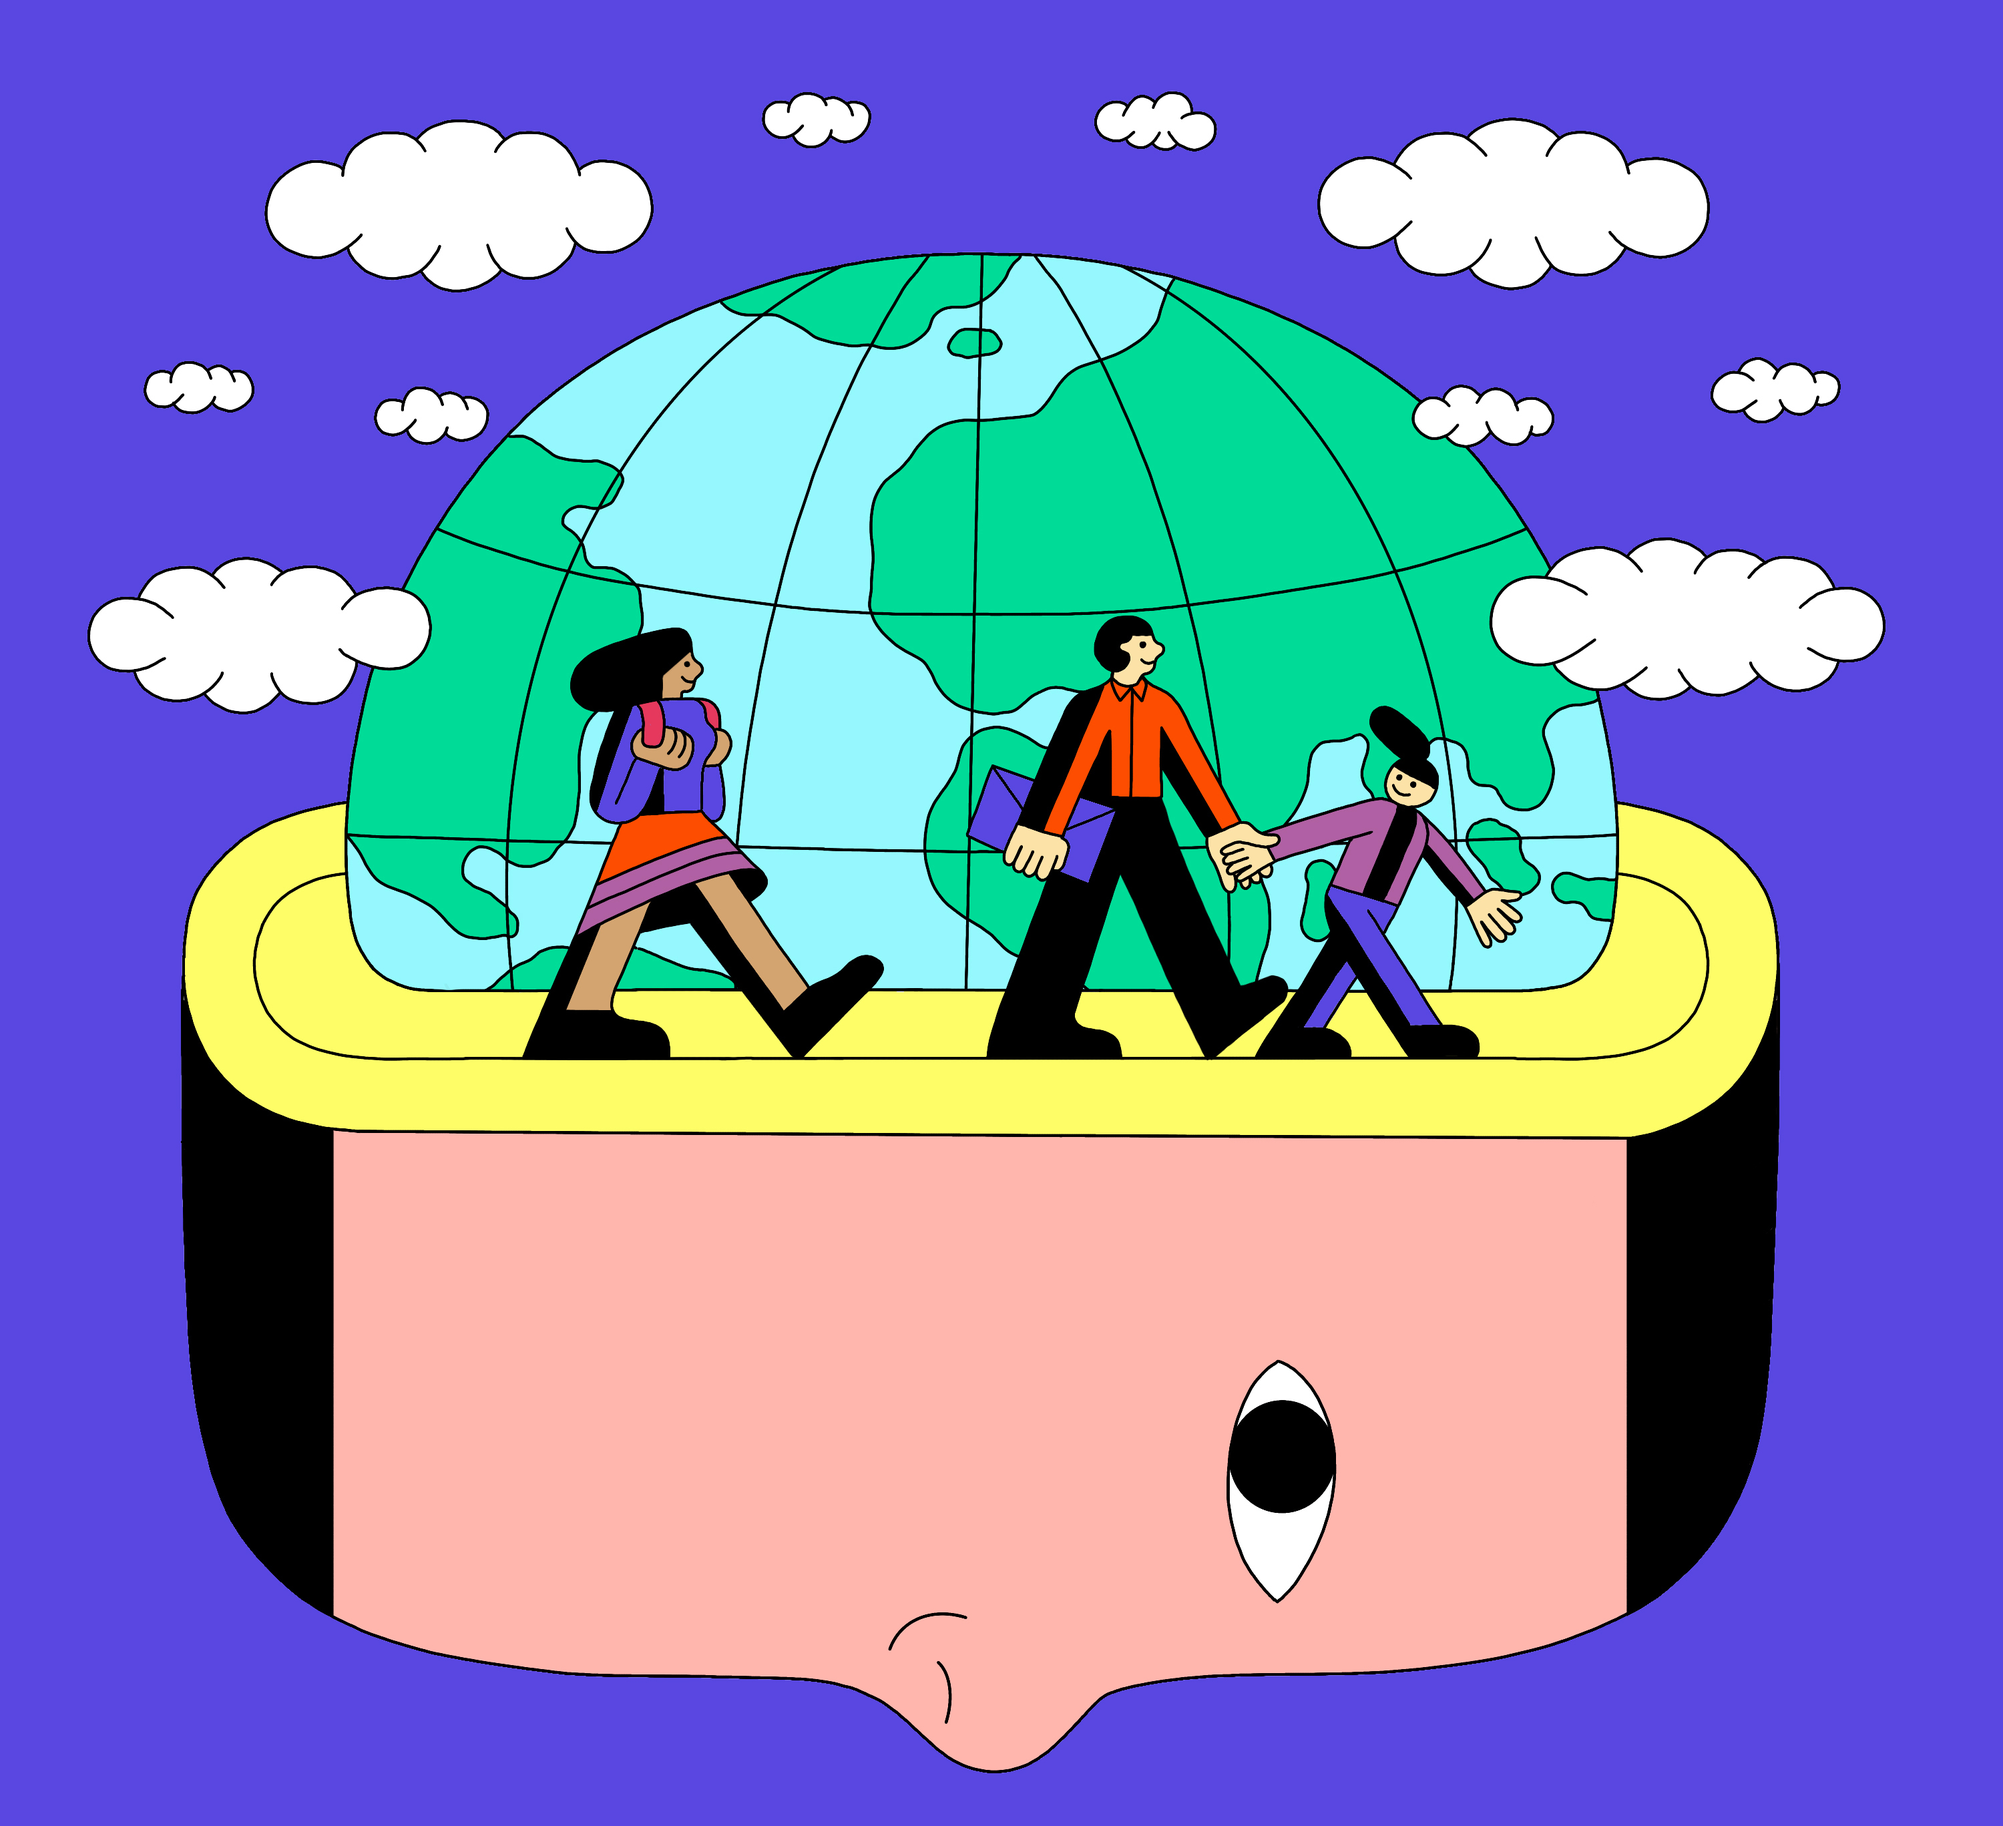
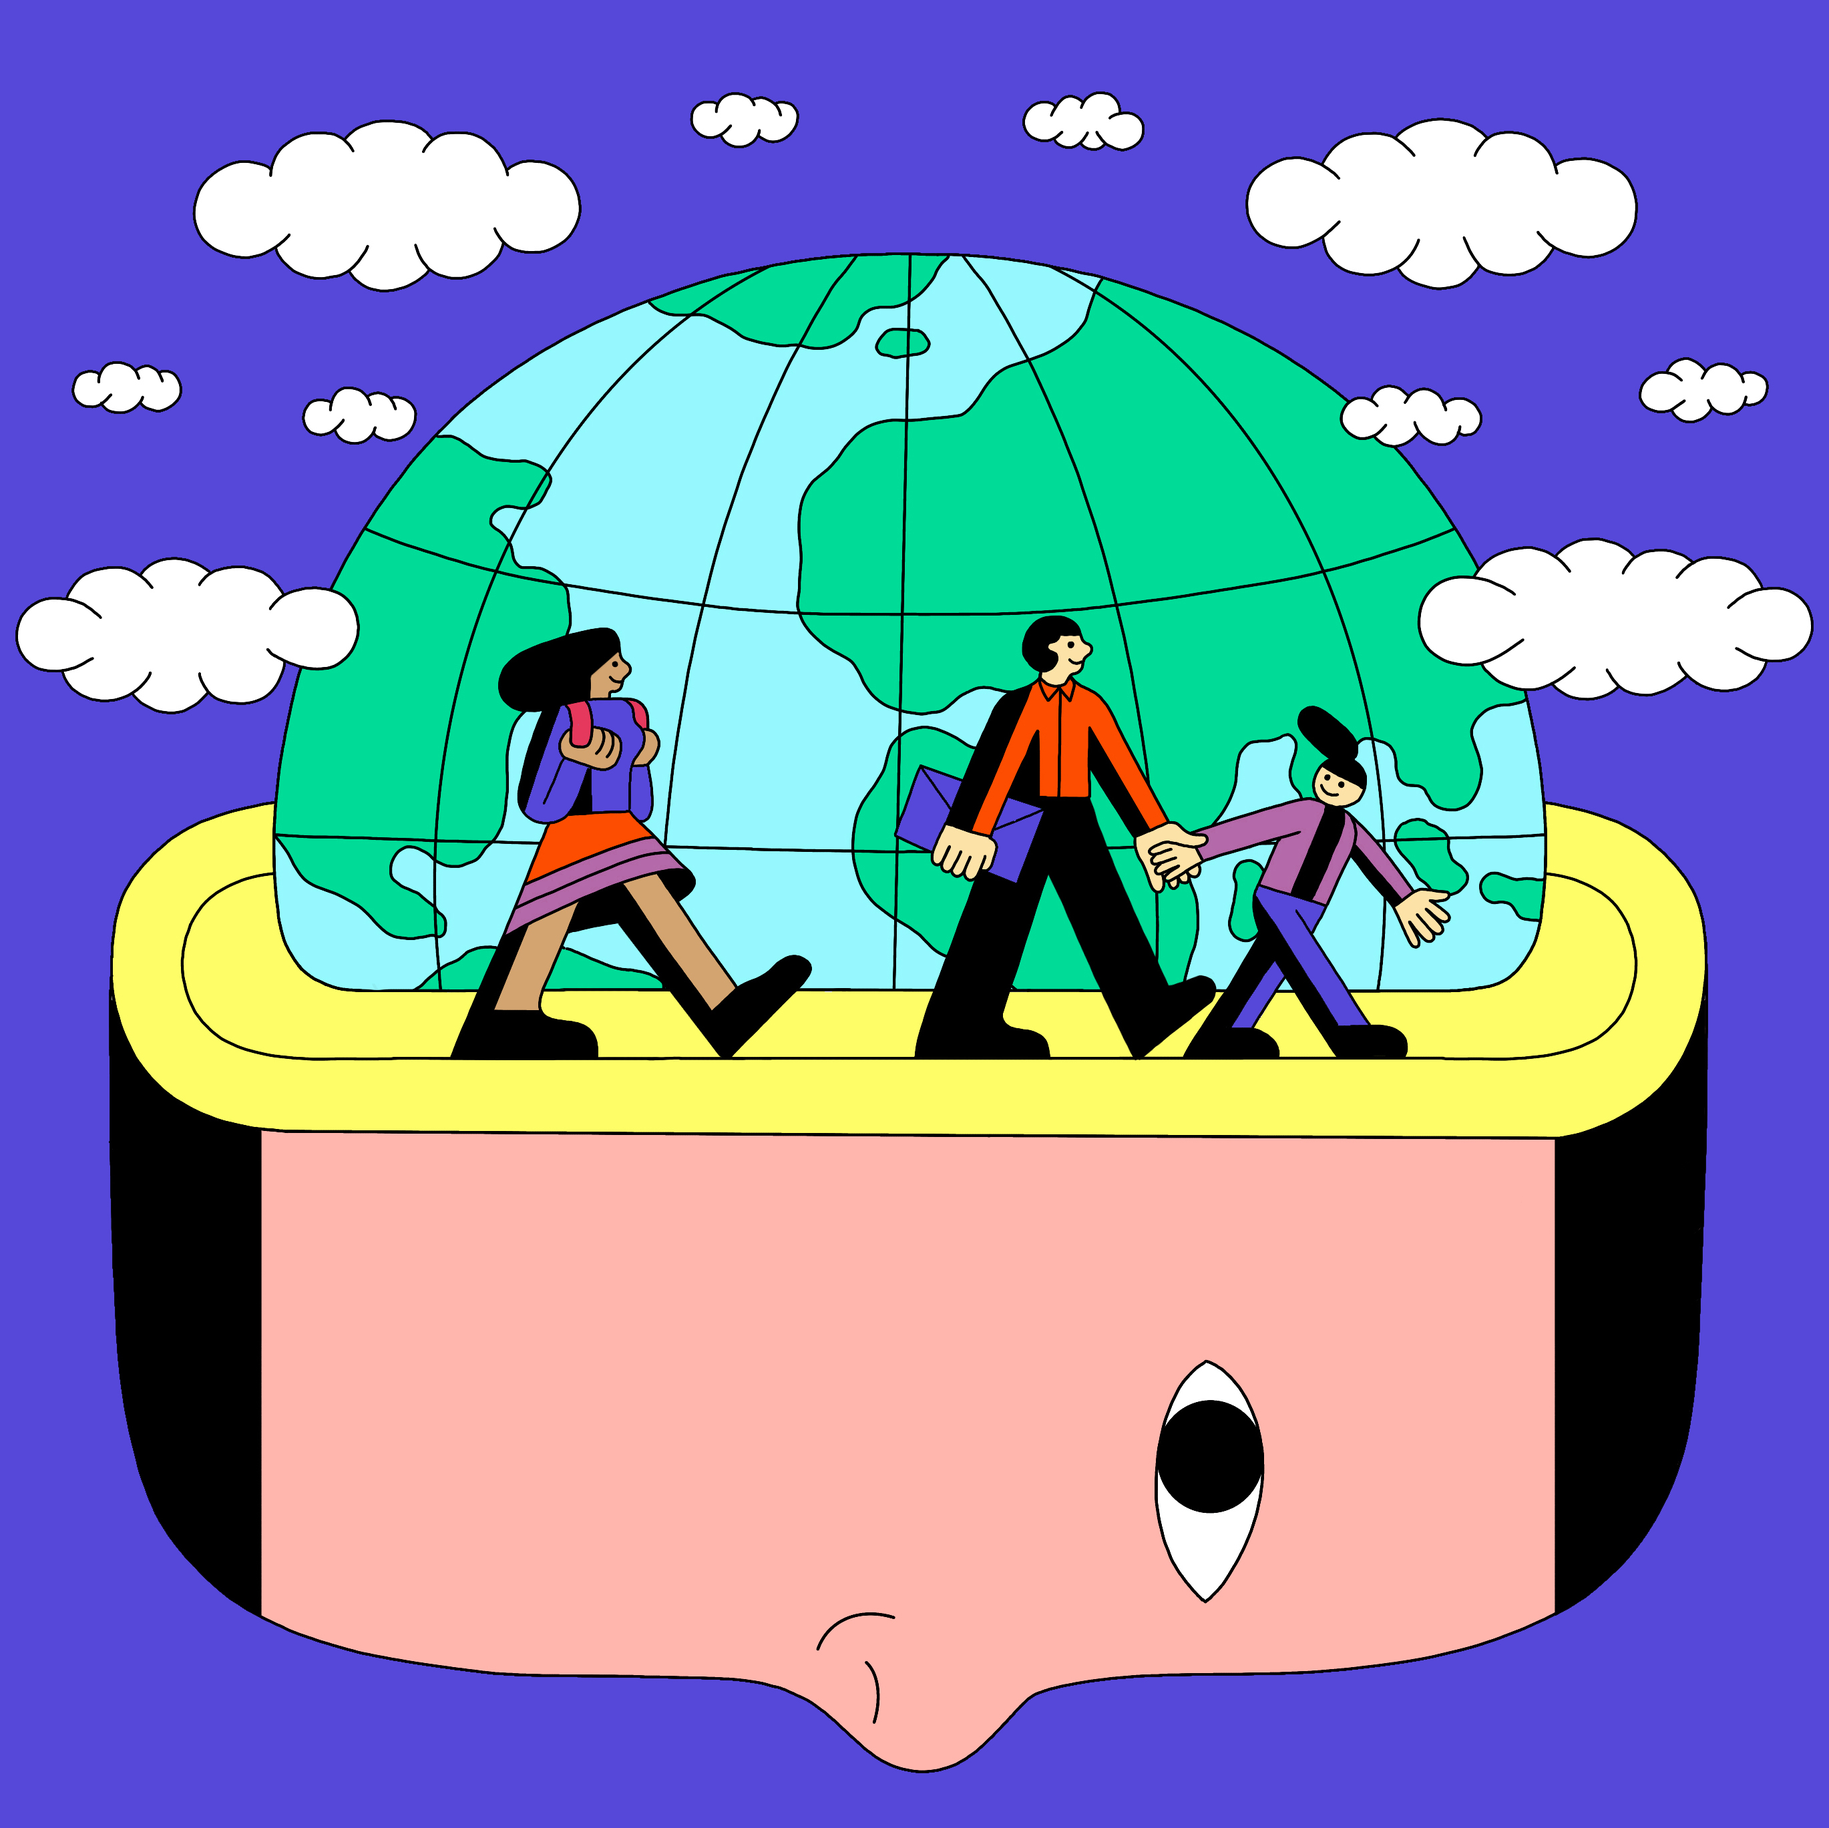
feat(www/climate): update climate-lab color and climate-lab image

diff --git a/apps/www/components/Climatelab/config.js b/apps/www/components/Climatelab/config.js
@@ -1,6 +1,6 @@
 export const climateColors = {
   light: {
-    default: '#5A47E1',
+    default: '#5648D9',
     text: '#FFFFFF',
     primary: '#FEFD67',
     primaryHover: '#F8F702',
